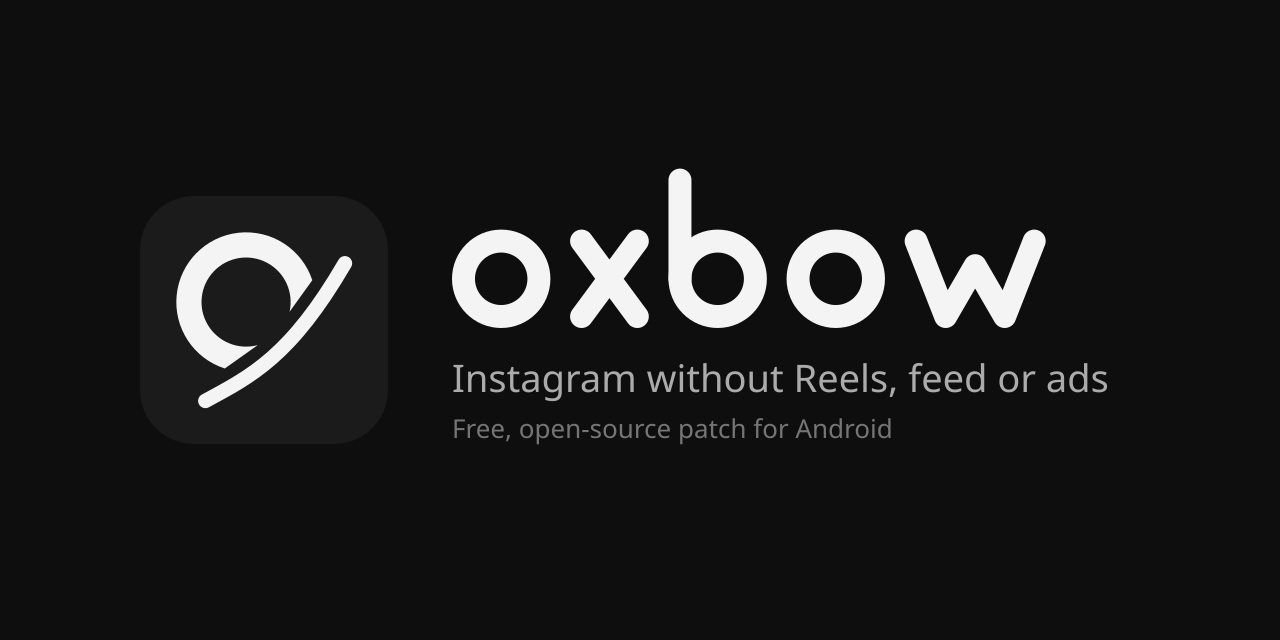
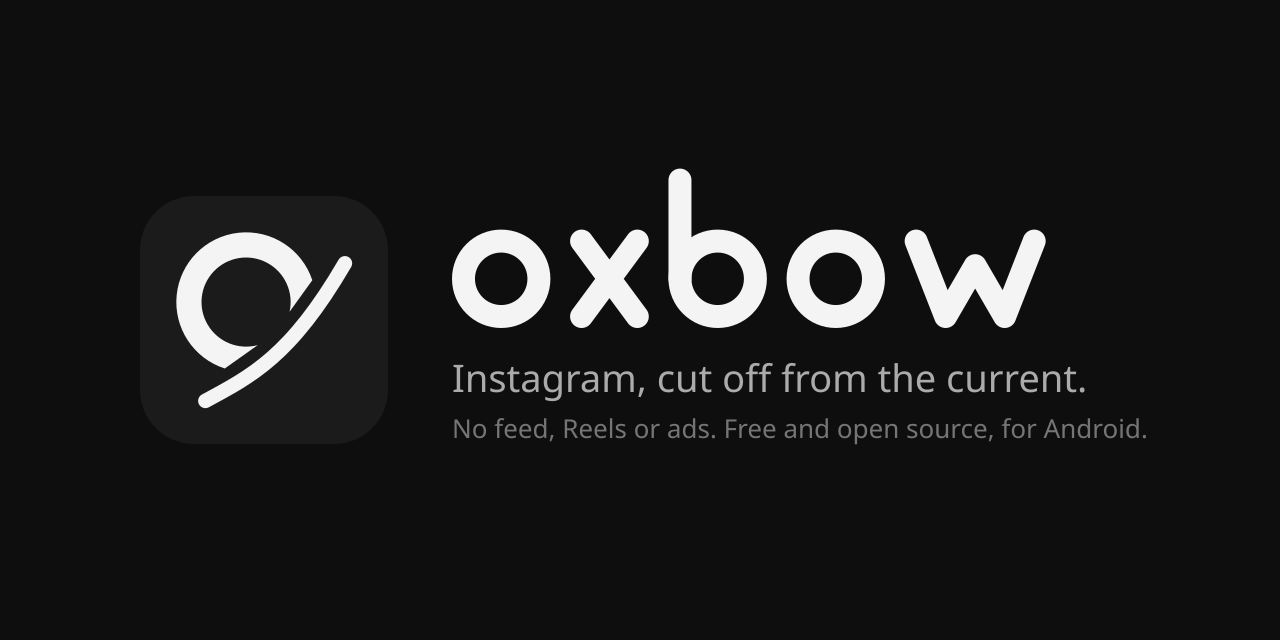
Social preview: new tagline "Instagram, cut off from the current."

Changed region(s): [[0.5, 0.5625, 0.875, 0.625], [0.3438, 0.6562, 0.9062, 0.6875]]

diff --git a/brand/build.py b/brand/build.py
@@ -202,9 +202,9 @@ def social_preview():
                f'<rect width="512" height="512" rx="112" fill="#1B1B1B"/>{mark(LIGHT)}</g>'
                f'<g transform="translate({tx} {my + 132}) scale({ws})">{body}</g>'
                f'<text x="{tx}" y="{my + 196}" font-family="{sans}" font-size="38" fill="#ABABAB">'
-               f'Instagram without Reels, feed or ads</text>'
+               f'Instagram, cut off from the current.</text>'
                f'<text x="{tx}" y="{my + 242}" font-family="{sans}" font-size="26" fill="#757575">'
-               f'Free, open-source patch for Android</text>')
+               f'No feed, Reels or ads. Free and open source, for Android.</text>')
 
 
 def write(rel, text):
